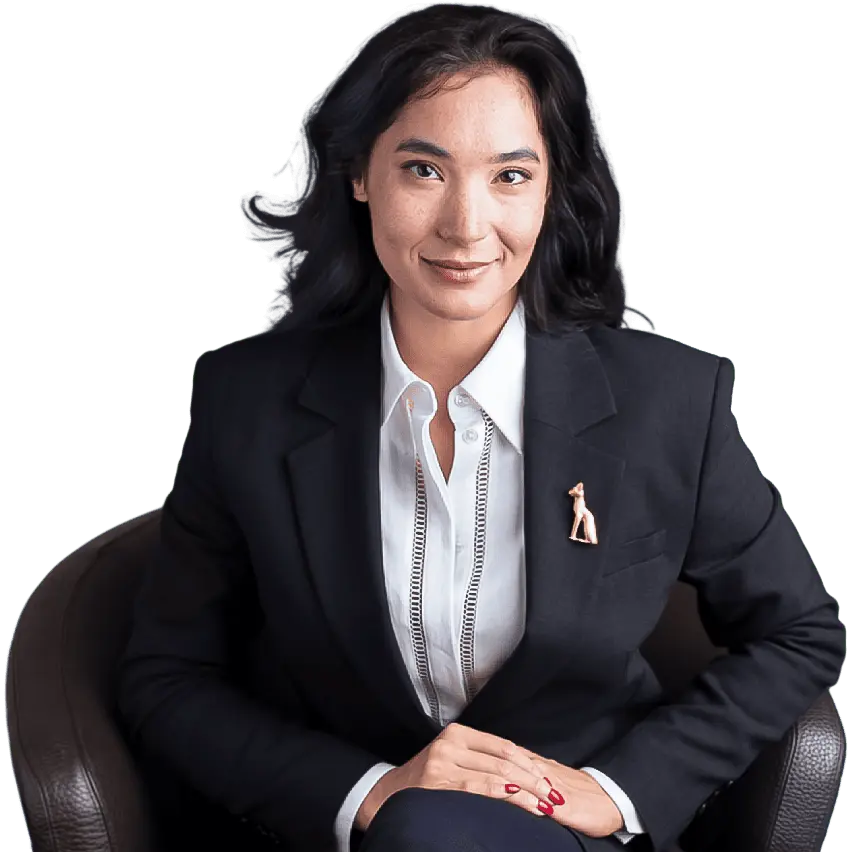
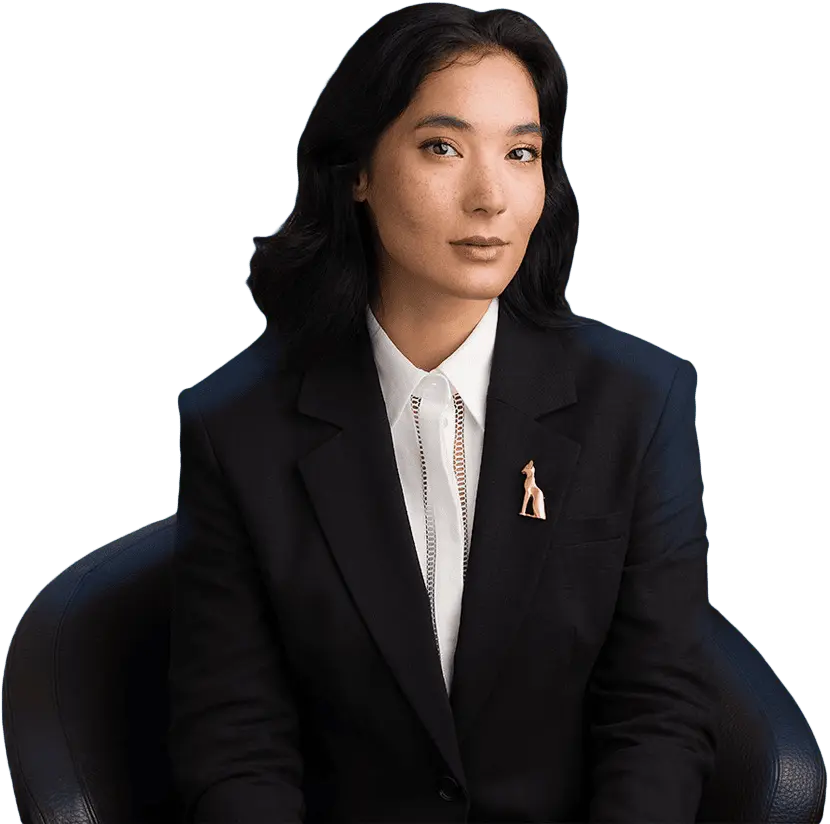
update leader photo

diff --git a/app/Http/Controllers/Public/AboutPageController.php b/app/Http/Controllers/Public/AboutPageController.php
@@ -26,7 +26,7 @@ class AboutPageController extends Controller
                 ]
             ],
             [
-                'image' => '/img/temp/about-leader-2.webp',
+                'image' => '/img/temp/about-leader-2.webp?v=2',
                 'name' => 'Shynar Lindemann',
                 'position' => 'Co-Founder, TND UNIVERSE',
                 'info' => [
